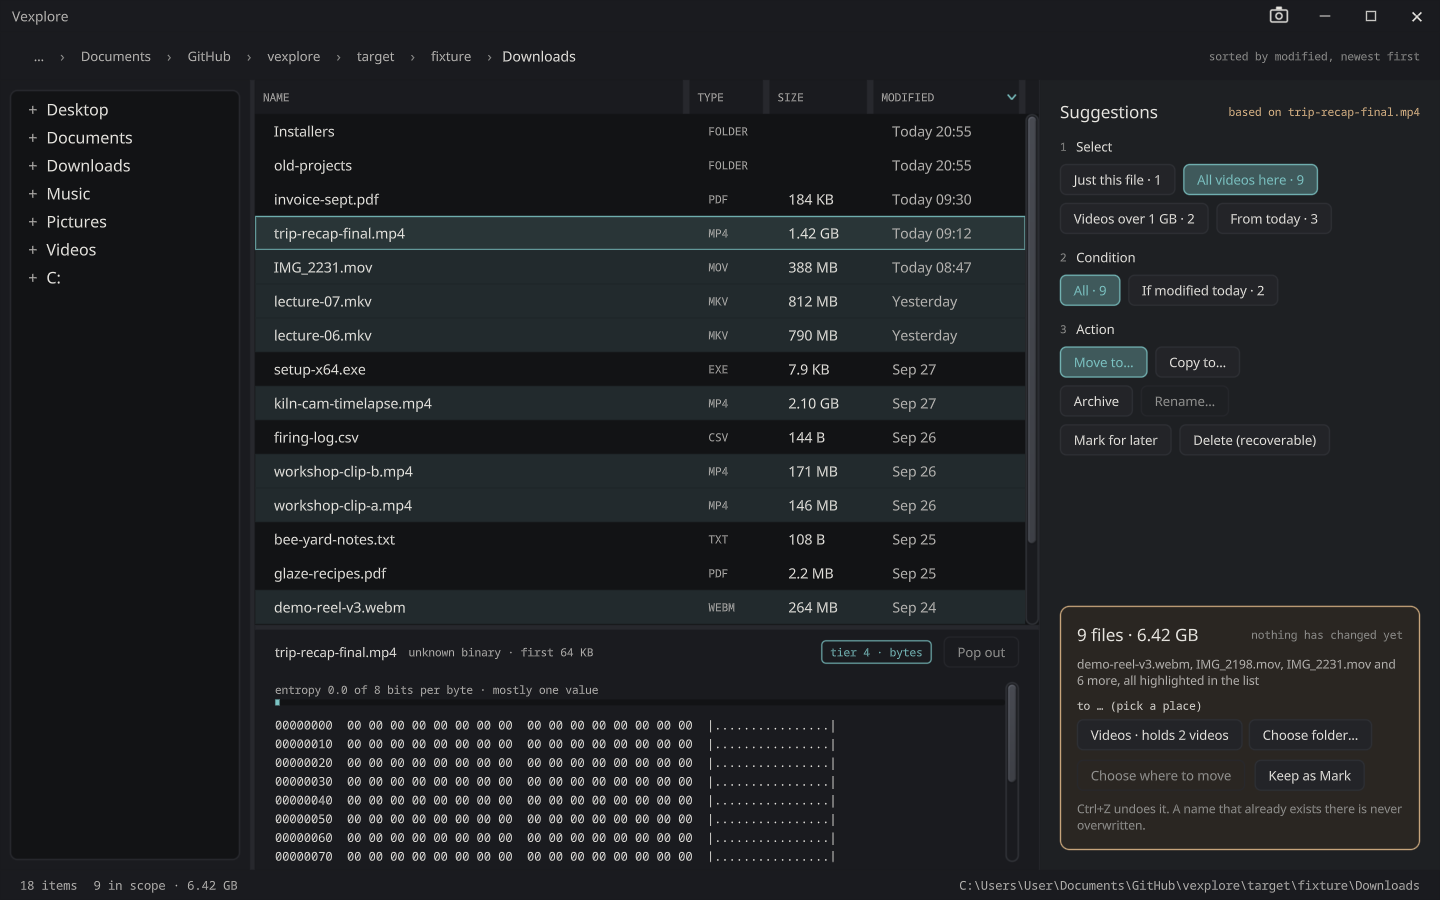
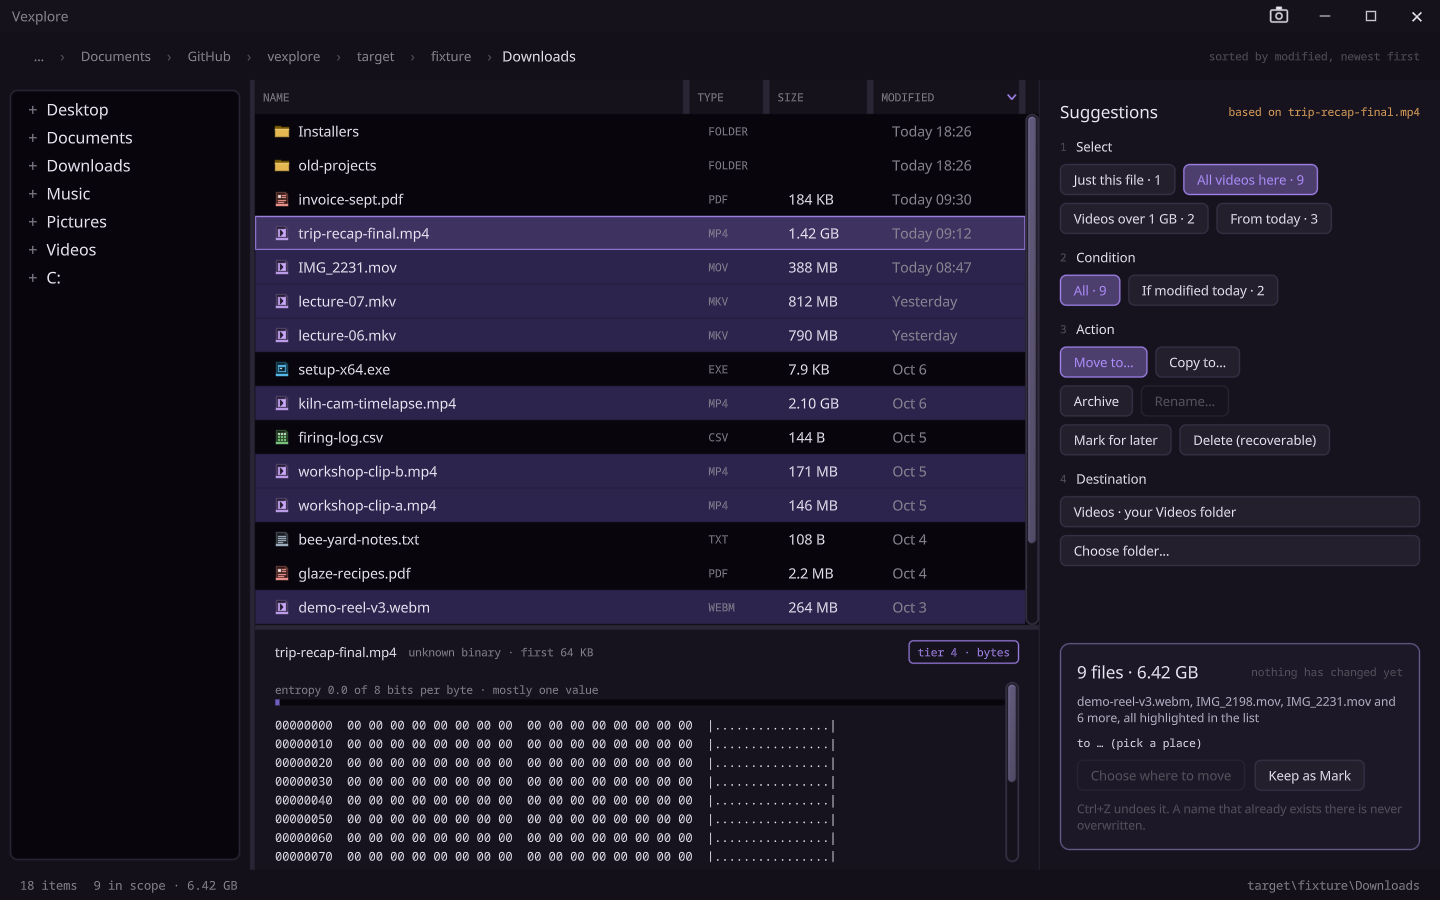
Step 4, Destination, and a header that never widens the rail
A move or copy gets a fourth section in the rail. Images are offered the
home Pictures folder and videos Videos, ahead of the neighbours that already
hold the kind; a mixed bunch directly in Desktop, Downloads or Documents is
also offered "To compressed archive", which switches to Archive. The folder
dialog comes last. The place chips leave the summary card, which still says
where the files will go.

The "based on" name beside Suggestions is cut in the middle by count,
keeping its extension, and clipped by its box, so a long name no longer puts
a horizontal scrollbar on the rail.

vexplore.home moves where the guesses look. The scenes point it at the
fixture: 02-move clicks the first destination, which would otherwise be the
real Videos folder. Plans compare paths absolute, since a suggested
destination is and a scene's folder may not be.

diff --git a/src/main/java/dev/sibarum/vexplore/RailView.java b/src/main/java/dev/sibarum/vexplore/RailView.java
@@ -2,8 +2,10 @@ package dev.sibarum.vexplore;
 
 import dev.sibarum.vexplore.Doc.Mark;
 import dev.sibarum.vexplore.Doc.Work;
+import dev.sibarum.vexplore.files.Destinations;
 import dev.sibarum.vexplore.files.Destinations.Dest;
 import dev.sibarum.vexplore.files.Entry;
+import dev.sibarum.vexplore.files.Kind;
 import dev.sibarum.vexplore.ops.Plan;
 import dev.sibarum.vexplore.suggest.Bytes;
 import dev.sibarum.vexplore.suggest.Intents.Candidate;
@@ -14,6 +16,7 @@ import dev.sibarum.vexplore.suggest.Suggestions.Rail;
 import dev.vexelray.gui.core.Gui;
 import dev.vexelray.gui.core.Node;
 import dev.vexelray.gui.core.layout.LayoutEnums.AlignItems;
+import dev.vexelray.gui.core.layout.LayoutEnums.Justify;
 import dev.vexelray.gui.core.layout.Length;
 import dev.vexelray.gui.core.style.Role;
 import dev.vexelray.gui.widget.Button;
@@ -25,7 +28,8 @@ import java.util.Set;
 import java.util.function.Consumer;
 
 /**
- * The Suggestion Rail's contents: Select, Condition, Action, and the card that states the effect first.
+ * The Suggestion Rail's contents: Select, Condition, Action, Destination for a move or copy, and the card that
+ * states the effect first.
  *
  * <p>The rail is a fixed column and this rewrites <em>only its contents</em>. A suggestion that arrives, changes or
  * leaves therefore moves no row of the list and covers nothing; at worst it moves another part of the rail, which
@@ -46,6 +50,9 @@ final class RailView {
     private record Key(Rail rail, Suggestions.Pick pick, List<Candidate> intent, boolean shift, boolean control,
                        Work work, Plan plan, Set<Path> selected) {
     }
+
+    /** How much of a file name the header's "based on" shows before cutting it in the middle. */
+    private static final int BASIS_CHARS = 28;
 
     private final Gui gui;
     private final Model model;
@@ -87,13 +94,16 @@ final class RailView {
         kids.clear();
         Rail rail = key.rail();
 
-        Node basis = gui.text(rail.basis().isEmpty() ? "" : "based on " + rail.basis()).font(Type.MONO)
-                .textSize(Type.SMALL).textColor(gui.theme().color(Look.ANCHOR)).wordWrap(false);
+        // A long name is shortened by count, keeping its extension, and whatever still does not fit is clipped by
+        // its box: the header never widens the rail.
+        Node basis = gui.text(rail.basis().isEmpty() ? "" : "based on " + shorten(rail.basis(), BASIS_CHARS))
+                .font(Type.MONO).textSize(Type.SMALL).textColor(gui.theme().color(Look.ANCHOR)).wordWrap(false);
         gui.landmark(Landmarks.BASIS, basis);
-        add(gui.row().width(Length.FILL).alignItems(AlignItems.CENTER).children(
+        Node basisBox = gui.row().width(Length.grow(1f)).alignItems(AlignItems.CENTER)
+                .justify(Justify.END).scroll(false, false).clip(true).children(basis);
+        add(gui.row().width(Length.FILL).alignItems(AlignItems.CENTER).gap(Length.rem(0.6f)).children(
                 gui.text("Suggestions").font(Type.UI).textSize(Type.HEADING).textColor(gui.theme().color(Role.INK)),
-                gui.box().width(Length.grow(1f)).height(Length.rem(1f)),
-                basis));
+                basisBox));
 
         Work work = doc.work();
         if (!work.busy().isEmpty() || !work.notice().isEmpty()) {
@@ -114,6 +124,10 @@ final class RailView {
         add(section(2, "Condition", chips(rail.conditions(), effectiveCondition(doc, rail),
                 c -> model.pick(p -> p.with(c)))));
         add(section(3, "Action", actions(rail, doc.pick().act())));
+        Act act = doc.pick().act();
+        if (act == Act.MOVE || act == Act.COPY) {
+            add(section(4, "Destination", places(doc, rail, work)));
+        }
         if (!work.marks().isEmpty()) {
             add(marks(work));
         }
@@ -259,17 +273,25 @@ final class RailView {
     }
 
 
+    /** The card's line saying where a move or copy goes; the places to choose from are step 4. */
     private Node destination(Work work) {
-        Node column = gui.column().width(Length.FILL).gap(Length.rem(0.4f));
         Node where = gui.text(work.destination() == null ? "to … (pick a place)" : "to " + work.destination())
                 .font(Type.MONO).textSize(Type.SMALL).textColor(gui.theme().color(Role.INK)).wordWrap(true)
                 .width(Length.FILL);
         gui.landmark(Landmarks.DESTINATION, where);
-        column.append(where);
-        Node row = gui.row().gap(Length.rem(0.4f)).scroll(false, false);
+        return where;
+    }
+
+    /**
+     * Step 4, for a move or a copy: where to, guessed from the first three steps. The person's own folder for the
+     * kind comes first, then the neighbours that already hold it; a mixed bunch in Desktop, Downloads or Documents
+     * is also offered a new archive, which is the Archive action. The folder dialog is last, for everything else.
+     */
+    private Node places(Doc doc, Rail rail, Work work) {
+        Node column = gui.column().width(Length.FILL).gap(Length.rem(0.5f));
         int shownCount = 0;
         for (Dest d : work.suggested()) {
-            if (shownCount++ >= 2) {
+            if (shownCount++ >= 3) {
                 break;
             }
             String name = d.path().getFileName() == null ? d.path().toString() : d.path().getFileName().toString();
@@ -279,13 +301,34 @@ final class RailView {
             if (shownCount == 1) {
                 gui.landmark(Landmarks.DEST_FIRST, chip.node());
             }
-            row.append(chip.node());
+            column.append(chip.node());
+        }
+        List<Kind> kinds = rail.effect().targets().stream().map(Entry::kind).toList();
+        if (rail.acts().contains(Act.ARCHIVE) && Destinations.archives(doc.folder(), Startup.home(), kinds)) {
+            Button archive = new Button(gui, "To compressed archive")
+                    .onPress(() -> model.pick(p -> p.with(Act.ARCHIVE)));
+            gui.landmark(Landmarks.DEST_ARCHIVE, archive.node());
+            column.append(archive.node());
         }
         Button choose = new Button(gui, "Choose folder…").onPress(actor::choose);
         gui.landmark(Landmarks.CHOOSE, choose.node());
-        row.append(choose.node());
-        column.append(row);
+        column.append(choose.node());
         return column;
+    }
+
+    /**
+     * {@code name} in at most {@code max} characters, cut in the middle so the start and the extension both stay.
+     * By count rather than by measuring, as the breadcrumb does, so the header does not re-decide itself as the
+     * rail is resized.
+     */
+    static String shorten(String name, int max) {
+        if (name.length() <= max) {
+            return name;
+        }
+        int dot = name.lastIndexOf('.');
+        int tail = dot > 0 && name.length() - dot <= max / 3 ? name.length() - dot + 3 : max / 3;
+        int head = max - 1 - tail;
+        return name.substring(0, head) + "…" + name.substring(name.length() - tail);
     }
 
     private static String hint(Act act, Plan plan) {

diff --git a/src/main/java/dev/sibarum/vexplore/files/Destinations.java b/src/main/java/dev/sibarum/vexplore/files/Destinations.java
@@ -32,6 +32,8 @@ public final class Destinations {
         if (here == null || kind == null || kind == Kind.FOLDER) {
             return List.of();
         }
+        here = absolute(here);
+        exclude = exclude.stream().map(Destinations::absolute).collect(java.util.stream.Collectors.toSet());
         Set<Path> candidates = new HashSet<>(Folders.subfolders(here));
         Path parent = here.getParent();
         if (parent != null) {
@@ -54,6 +56,46 @@ public final class Destinations {
         }
         out.sort(Comparator.comparingInt(Dest::count).reversed().thenComparing(d -> d.path().toString()));
         return out.size() > MAX ? List.copyOf(out.subList(0, MAX)) : List.copyOf(out);
+    }
+
+    /**
+     * The person's own folder for a kind, the guess that goes before the neighbours: images to Pictures and videos
+     * to Videos under {@code home}. Null when the kind has no such folder, the folder does not exist, or the files
+     * are already in it.
+     */
+    public static Dest home(Path here, Path home, Kind kind) {
+        String name = kind == Kind.IMAGE ? "Pictures" : kind == Kind.VIDEO ? "Videos" : null;
+        if (name == null || home == null) {
+            return null;
+        }
+        Path p = absolute(home).resolve(name);
+        if (!java.nio.file.Files.isDirectory(p) || (here != null && p.equals(absolute(here)))) {
+            return null;
+        }
+        return new Dest(p, "your " + name + " folder", 0);
+    }
+
+    /**
+     * Whether what is being moved is a mixed bunch sitting in one of the folders things pile up in — Desktop,
+     * Downloads or Documents directly under {@code home} — for which the better place is a new archive rather than
+     * any one folder. Mixed means more than one kind.
+     */
+    public static boolean archives(Path here, Path home, java.util.Collection<Kind> kinds) {
+        if (here == null || home == null) {
+            return false;
+        }
+        here = absolute(here);
+        if (!absolute(home).equals(here.getParent()) || here.getFileName() == null) {
+            return false;
+        }
+        String name = here.getFileName().toString().toLowerCase(java.util.Locale.ROOT);
+        boolean pile = name.equals("desktop") || name.equals("downloads") || name.equals("documents");
+        return pile && Set.copyOf(kinds).size() > 1;
+    }
+
+    /** The folder being shown may be given relative (a scene's {@code vexplore.folder}) and home absolute. */
+    private static Path absolute(Path p) {
+        return p.toAbsolutePath().normalize();
     }
 
     /** The names directly in {@code dir}: what a plan is checked against for collisions. */

diff --git a/src/test/java/dev/sibarum/vexplore/files/DestinationsTest.java b/src/test/java/dev/sibarum/vexplore/files/DestinationsTest.java
@@ -65,4 +65,35 @@ class DestinationsTest {
         touch(root, "a.txt", "b.txt");
         assertEquals(Set.of("a.txt", "b.txt"), Destinations.names(root));
     }
+
+    @Test
+    void imagesGuessPicturesAndVideosGuessVideos(@TempDir Path home) throws IOException {
+        Path here = home.resolve("Downloads");
+        touch(here);
+        touch(home.resolve("Pictures"));
+        touch(home.resolve("Videos"));
+        assertEquals(home.resolve("Pictures"), Destinations.home(here, home, Kind.IMAGE).path());
+        assertEquals(home.resolve("Videos"), Destinations.home(here, home, Kind.VIDEO).path());
+        assertEquals(null, Destinations.home(here, home, Kind.DOCUMENT));
+    }
+
+    @Test
+    void noGuessForAMissingFolderOrTheOneTheFilesAreIn(@TempDir Path home) throws IOException {
+        assertEquals(null, Destinations.home(home.resolve("Downloads"), home, Kind.IMAGE), "no Pictures here");
+        touch(home.resolve("Pictures"));
+        assertEquals(null, Destinations.home(home.resolve("Pictures"), home, Kind.IMAGE));
+    }
+
+    @Test
+    void aMixedBunchInAPileFolderIsOfferedAnArchive(@TempDir Path home) {
+        List<Kind> mixed = List.of(Kind.IMAGE, Kind.DOCUMENT, Kind.ARCHIVE);
+        assertTrue(Destinations.archives(home.resolve("Downloads"), home, mixed));
+        assertTrue(Destinations.archives(home.resolve("Desktop"), home, mixed));
+        assertTrue(Destinations.archives(home.resolve("documents"), home, mixed));
+        assertTrue(!Destinations.archives(home.resolve("Downloads"), home, List.of(Kind.IMAGE, Kind.IMAGE)),
+                "one kind is not a mixed bunch");
+        assertTrue(!Destinations.archives(home.resolve("Projects"), home, mixed), "not a pile folder");
+        assertTrue(!Destinations.archives(home.resolve("Downloads").resolve("old"), home, mixed),
+                "only the pile folder itself");
+    }
 }

diff --git a/src/main/java/dev/sibarum/vexplore/Startup.java b/src/main/java/dev/sibarum/vexplore/Startup.java
@@ -26,6 +26,7 @@ import java.util.stream.Collectors;
  *   <li>{@code vexplore.scope}, {@code vexplore.act} — a {@link Scope} and an {@link Act} to have picked;</li>
 
  *   <li>{@code vexplore.hold} — {@code shift} or {@code control}: act as though that key is down;</li>
+ *   <li>{@code vexplore.home} — the home folder step 4 guesses destinations under; the user's when absent;</li>
  *   <li>{@code vexplore.sync} — list on the calling thread, so a capture is not taken before the folder is read.</li>
  * </ul>
  */
@@ -42,6 +43,15 @@ final class Startup {
         Path home = Path.of(System.getProperty("user.home"));
         Path downloads = home.resolve("Downloads");
         return Files.isDirectory(downloads) ? downloads : home;
+    }
+
+    /**
+     * The home folder destinations are guessed under (its Pictures, Videos, Desktop, Downloads, Documents):
+     * {@code vexplore.home}, else the user's. A scene sets it to its fixture so nothing it does reaches the real ones.
+     */
+    static Path home() {
+        String given = System.getProperty("vexplore.home");
+        return Path.of(given != null && !given.isBlank() ? given : System.getProperty("user.home"));
     }
 
     static boolean synchronous() {

diff --git a/src/main/java/dev/sibarum/vexplore/Destinator.java b/src/main/java/dev/sibarum/vexplore/Destinator.java
@@ -7,6 +7,7 @@ import dev.sibarum.vexplore.suggest.Suggestions.Act;
 import dev.vexelray.gui.core.Gui;
 
 import java.nio.file.Path;
+import java.util.List;
 import java.util.Objects;
 import java.util.Set;
 
@@ -53,13 +54,20 @@ final class Destinator {
         }
         Question mine = q;
         Runnable work = () -> {
-            var found = Destinations.suggest(mine.folder(), mine.kind(), Set.of());
+            Destinations.Dest guess = Destinations.home(mine.folder(), Startup.home(), mine.kind());
+            var near = Destinations.suggest(mine.folder(), mine.kind(),
+                    guess == null ? Set.of() : Set.of(guess.path()));
+            var found = new java.util.ArrayList<Destinations.Dest>();
+            if (guess != null) {
+                found.add(guess);
+            }
+            found.addAll(near);
             synchronized (this) {
                 if (!Objects.equals(mine, asked)) {
                     return;
                 }
             }
-            model.work(w -> w.suggesting(found));
+            model.work(w -> w.suggesting(List.copyOf(found)));
         };
         if (Startup.synchronous()) {
             work.run();

diff --git a/src/test/java/dev/sibarum/vexplore/RailViewTest.java b/src/test/java/dev/sibarum/vexplore/RailViewTest.java
@@ -1,0 +1,30 @@
+package dev.sibarum.vexplore;
+
+import org.junit.jupiter.api.Test;
+
+import static org.junit.jupiter.api.Assertions.assertEquals;
+import static org.junit.jupiter.api.Assertions.assertTrue;
+
+/** The header's file name, shortened so it never widens the rail. */
+class RailViewTest {
+
+    @Test
+    void aShortNameIsLeftAlone() {
+        assertEquals("holiday.png", RailView.shorten("holiday.png", 28));
+    }
+
+    @Test
+    void aLongNameIsCutInTheMiddleAndKeepsItsExtension() {
+        String s = RailView.shorten("a-really-very-long-screenshot-name-from-yesterday.png", 28);
+        assertEquals(28, s.length(), s);
+        assertTrue(s.startsWith("a-really-"), s);
+        assertTrue(s.endsWith(".png"), s);
+        assertTrue(s.contains("…"), s);
+    }
+
+    @Test
+    void aLongExtensionlessNameStillFits() {
+        String s = RailView.shorten("x".repeat(80), 28);
+        assertEquals(28, s.length(), s);
+    }
+}

diff --git a/src/main/java/dev/sibarum/vexplore/ops/Plan.java b/src/main/java/dev/sibarum/vexplore/ops/Plan.java
@@ -57,11 +57,14 @@ public record Plan(Kind kind, List<Step> steps, List<Skip> skipped, long bytes, 
                 skipped.add(new Skip(from, "no destination chosen"));
                 continue;
             }
-            if (destination.startsWith(from)) {
+            // Compared absolute: a suggested destination is, and the folder being shown may not be.
+            Path to = destination.toAbsolutePath().normalize();
+            Path whole = from.toAbsolutePath().normalize();
+            if (to.startsWith(whole)) {
                 skipped.add(new Skip(from, "the destination is inside it"));
                 continue;
             }
-            if (from.getParent() != null && from.getParent().equals(destination)) {
+            if (whole.getParent() != null && whole.getParent().equals(to)) {
                 skipped.add(new Skip(from, "already in that folder"));
                 continue;
             }

diff --git a/src/main/java/dev/sibarum/vexplore/Landmarks.java b/src/main/java/dev/sibarum/vexplore/Landmarks.java
@@ -31,6 +31,8 @@ final class Landmarks {
     static final String DESTINATION = "destination";
     /** The first suggested destination, which a script can await to know the suggestions have arrived. */
     static final String DEST_FIRST = "dest.1";
+    /** Step 4's "To compressed archive", offered for a mixed bunch in Desktop, Downloads or Documents. */
+    static final String DEST_ARCHIVE = "dest.archive";
     /** The dock's picture, which is its own control: a click views it in Pix, or in the viewer without Pix. */
     static final String POP_OUT = "popout";
 

diff --git a/docs/TODO.md b/docs/TODO.md
@@ -132,21 +132,12 @@ process and a new window**. The framework side (finding a sibling, the helper) i
 
 ## Details found while building
 
-- [ ] **A long file name in the rail's header puts a horizontal scrollbar on the rail.** The `based on <name>`
-      label beside *Suggestions* (`RailView`, `Landmarks.BASIS`) is `wordWrap(false)` and has no
-      limit, so a long name widens the row past the rail. It should be cut short to the space left (ellipsis in the
-      middle, so the extension stays), never widen the rail, and never wrap under the heading.
-- [ ] **Step 4, Destination, for *Copy to* and *Move to*.** The rail has Select, Condition and Action; an action
-      that needs a place gets a fourth section, and only then. The guess comes from what the first three steps
-      already say:
-      - images: `~/Pictures`
-      - videos: `~/Videos`
-      - a mixed bunch of files in Desktop, Downloads or Documents: *To compressed archive*, a new archive rather
-        than a folder.
-
-      `Destinator` already suggests neighbouring folders that hold the kind; those and the destination history
-      (above) sit in this section alongside the guess.
-
+- [ ] ***To compressed archive* from a move keeps the originals.** Step 4 offers it for a mixed bunch in Desktop,
+      Downloads or Documents, and pressing it switches the action to Archive, which writes a zip beside them and
+      leaves them where they were. A move means they should go: archive, then the originals to the trash, undone as
+      one. That is a new `Plan.Kind`. "Mixed" is currently *more than one kind*, which a pair of files meets.
+- [ ] **Step 4 guesses `Pictures` and `Videos` by name under the home folder.** A folder Windows has relocated (to
+      OneDrive, or another drive) is not where its name says; the known-folder API (`SHGetKnownFolderPath`) is.
 - [ ] **`Suggestions` offers "Videos over 1 GB · 2" by picking the largest round number below the selected file.**
       Good for one file; for several selected files it uses the *smallest* one. Both are guesses; worth a look once
       there is real use to look at.

diff --git a/README.md b/README.md
@@ -52,7 +52,8 @@ Needs the stack installed to the local Maven repository first, in the order in
 enabled for Panama.
 
 Startup properties, for a known state (see `Startup`): `vexplore.folder`, `vexplore.select` (comma-separated
-names), `vexplore.scope`, `vexplore.act`, `vexplore.hold`, `vexplore.trash`, and `vexplore.sync=true` to list on the calling thread.
+names), `vexplore.scope`, `vexplore.act`, `vexplore.hold`, `vexplore.trash`, `vexplore.home` (where step 4 looks for
+Pictures, Videos and the pile folders; the scenes point it at the fixture), and `vexplore.sync=true` to list on the calling thread.
 
 A path on the command line wins over `vexplore.folder`: `vexplore <folder>` opens it, and `vexplore <file>` opens the
 folder it is in with that file selected. That is how the suite's other apps say "show this here".
@@ -81,7 +82,7 @@ scene does not depend on where anything is drawn:
 sh docs/scenes/fixture.sh
 java -jar ../vexelray-gui/vexelray-gui-automation-cli/target/vexelray-gui-automation-cli-0.1.0-SNAPSHOT.jar \
      --script docs/scenes/02-move.txt --launch mvn.cmd -q exec:exec -Dautomation=0 \
-     "-Dapp.jvmArgs=-Dvexplore.folder=target/fixture/Downloads -Dvexplore.trash=target/fixture/trash"
+     "-Dapp.jvmArgs=-Dvexplore.folder=target/fixture/Downloads -Dvexplore.trash=target/fixture/trash -Dvexplore.home=target/fixture"
 ```
 
 `01-select` is the first mockup; `02-move` moves nine videos to the folder that already holds videos and then undoes

diff --git a/docs/design/README.md b/docs/design/README.md
@@ -16,6 +16,8 @@ Simple filesystem operations should be simple. Common everyday tasks like "move 
 4. Mark: If you're not ready to perform an action yet, simply mark them. Marked filegroups can be referenced later, combined, compared, etc.
 5. Compare/Analyze: compares and contrasts two or more folders, filegroups, or subtrees.
 
+Copy (to folder) and Move (to folder) need one more answer: the Destination. Vexplore guesses it from what Select, Condition and Action already say. Images go to `~/Pictures`, videos to `~/Videos`, and a mixed bunch of files sitting in Desktop, Downloads or Documents goes to a new compressed archive.
+
 If a folder contains a recent file that dropped 5 seconds ago, highlight it, it's most likely important.
 
 There's always something worth highlighting.
